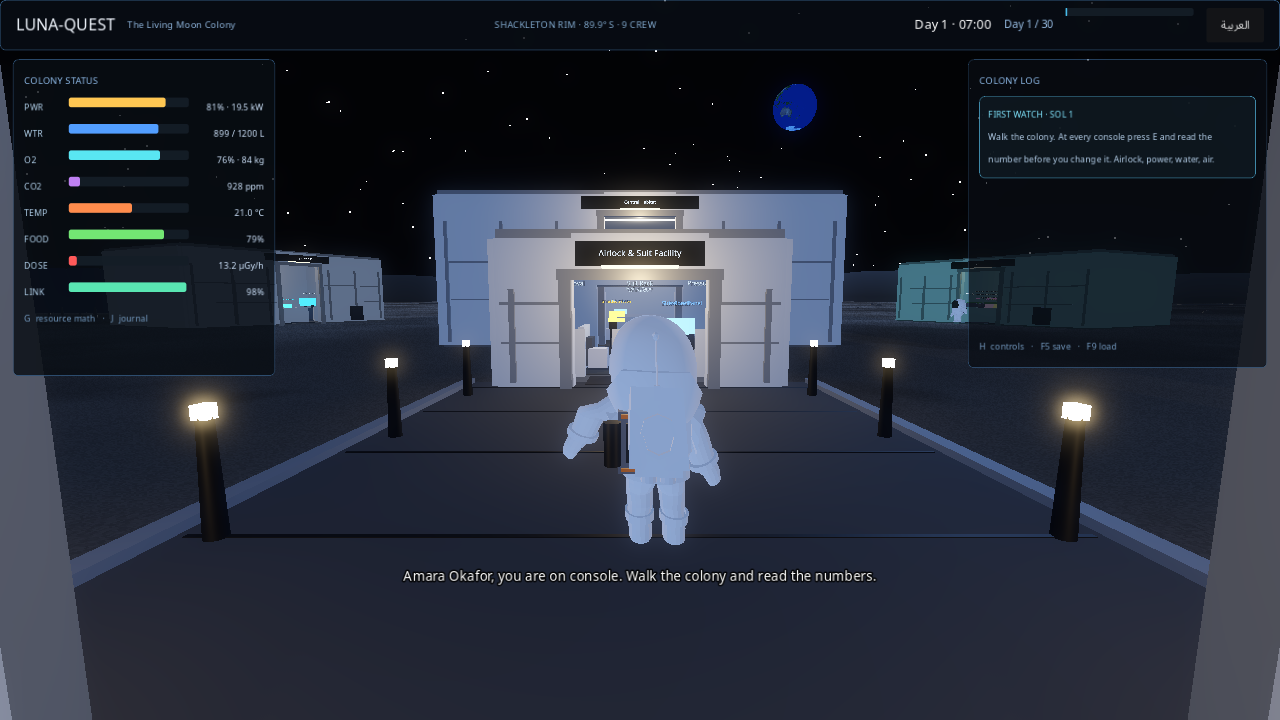
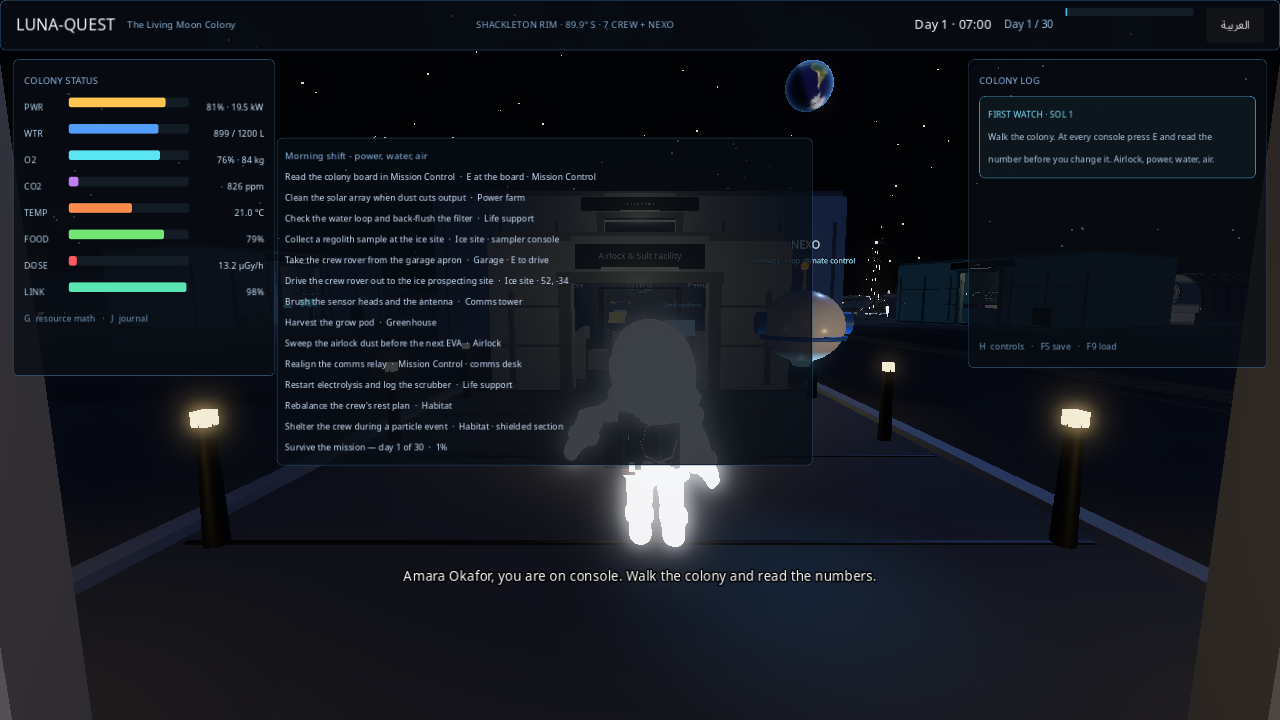
feat(tools): capture the README frames from the Godot .NET edition
The screenshot pipeline ran the browser edition (Chromium/Playwright), which no
longer exists in v3.4 (H1/A1). The capture now runs the shipped game itself:

- tools/capture-screenshots.sh builds the C# (Debug — the assembly a run loads),
  imports the project if needed, and takes all four frames under xvfb at a fixed
  1600x1000 screen (the game window stays at its full 1280x720), crops the
  astronaut-detail frame to 440x440 with Pillow, and validates every size.
- Main.cs gains three inert capture flags: --drive (takes the rover's wheel and
  supplies the pedal — a capture has no hands on the keyboard), --no-board (keeps
  the shift task board, which sits centre screen, out of portrait/detail frames),
  and --look applied after --portrait so the arm can frame the suit's back.
- RoverController.Drive reads a capture-only throttle; it is zero in normal play,
  where the keys decide exactly as before.
- screenshots.yml now builds the .NET edition and calls the script (no node, no
  Chromium); same Godot/dotnet recipe as godot-dotnet.yml, manual trigger only.
- The four frames in docs/screenshots/ are regenerated by that script, the README
  hero points at colony.png instead of the web contact sheet, and the docs list
  the new rover-driving frame and the provenance of every shot.

Guards green after the change: content 16/7/15/11/17/44, engine parity OK,
immutable assets 8 locked files / 12 hash checks.

diff --git a/engines/godot/LunaQuest.Godot/scripts/Main.cs b/engines/godot/LunaQuest.Godot/scripts/Main.cs
@@ -104,6 +104,8 @@ namespace LunaQuest.Godot
             bool cinematic = false;
             bool noIntro = false;
             bool roverTest = false;
+            bool drive = false;
+            bool noBoard = false;
             string? testDialogueNpc = null;
             Vector3? spawn = null;
             float? lookYaw = null, lookPitch = null;
@@ -119,6 +121,8 @@ namespace LunaQuest.Godot
                 else if (arg == "--cinematic") cinematic = true;
                 else if (arg == "--no-intro") noIntro = true;
                 else if (arg == "--rover-test") roverTest = true;
+                else if (arg == "--drive") drive = true;
+                else if (arg == "--no-board") noBoard = true;
                 else if (arg.StartsWith("--spawn=", StringComparison.Ordinal))
                 {
                     var parts = arg.Substring("--spawn=".Length).Split(',');
@@ -151,16 +155,26 @@ namespace LunaQuest.Godot
                 }
             }
             if (spawn.HasValue) Player.GlobalPosition = spawn.Value;
-            if (lookYaw.HasValue || lookPitch.HasValue)
+            // `--look` normally applies at once, but `--portrait` sets the portrait camera up
+            // later (deferred), and its own rotation would swallow the requested direction.
+            // With both flags the look is therefore applied after the portrait — that
+            // combination is how tools/capture-screenshots.sh gets the close back view it
+            // crops for astronaut-detail.png.
+            bool lookAfterPortrait = portrait && (lookYaw.HasValue || lookPitch.HasValue);
+            if (!lookAfterPortrait && (lookYaw.HasValue || lookPitch.HasValue))
                 Player.ResetLook(lookYaw ?? 0f, lookPitch ?? -0.12f);
             if (autoStart) CallDeferred(nameof(AutoStart));
+            if (drive) CallDeferred(nameof(DriveForCapture));
             if (firstPerson) CallDeferred(nameof(FirstPersonView));
             if (portrait) CallDeferred(nameof(Portrait));
+            if (lookAfterPortrait)
+                CallDeferred(nameof(ApplyLookDeferred), lookYaw ?? 0f, lookPitch ?? -0.12f);
+            if (noBoard) CallDeferred(nameof(HideBoardForCapture));
             if (voiceCheck) CallDeferred(nameof(VoicePackCheck));
             if (voiceDemo) CallDeferred(nameof(VoiceDemo));
             if (cinematic) CallDeferred(nameof(StartCinematic));
             bool scripted = autoStart || cinematic || voiceCheck || voiceDemo || portrait || firstPerson ||
-                            roverTest ||
+                            roverTest || drive || noBoard ||
                             _screenshotTimer > 0 || !string.IsNullOrEmpty(testDialogueNpc);
             if (cinematic) { _menuCam?.QueueFree(); _menuCam = null; _music?.Stop(); }
             // The film plays on the first launch; afterwards the menu offers it on demand.
@@ -309,6 +323,39 @@ namespace LunaQuest.Godot
         private void FirstPersonView() => Player.SetThirdPerson(false, false);
 
         private void Portrait() => Player.PortraitCamera();
+
+        /// <summary>
+        /// `--drive`: take the crew rover's wheel for a screenshot run (tools/capture-screenshots.sh).
+        /// A capture has no hands on the keyboard, so once the seat is taken the flag supplies
+        /// the pedal through <see cref="RoverController.CaptureThrottle"/> until the frame is
+        /// saved. Outside a capture the throttle stays zero and the keys win as before.
+        /// </summary>
+        private void DriveForCapture()
+        {
+            TryRoverInteraction();
+            RoverController.CaptureThrottle = Rover != null && Rover.Occupied ? 1f : 0f;
+        }
+
+        /// <summary>
+        /// The look half of a `--portrait --look=...` capture (see HandleCommandLine): applied
+        /// after the portrait camera so the arm orbits to the requested direction instead of
+        /// the portrait's own rotation winning. Inert without both flags.
+        /// </summary>
+        private void ApplyLookDeferred(float yaw, float pitch) => Player.ResetLook(yaw, pitch);
+
+        /// <summary>
+        /// `--no-board`: keep the shift task board off the screen for one capture. The board
+        /// sits in the centre of the frame — exactly where a portrait's visor lands — so
+        /// tools/capture-screenshots.sh takes it out of the way for the portrait and detail
+        /// shots. Every other HUD element stays; nothing changes in normal play, where the
+        /// flag is never passed.
+        /// </summary>
+        private void HideBoardForCapture()
+        {
+            // BoardPanel is the styled container around BoardBox — hiding the panel takes the
+            // background and the rows with it.
+            if (Hud?.BoardPanel != null) Hud.BoardPanel.Visible = false;
+        }
 
         public override void _Process(double delta)
         {

diff --git a/engines/godot/LunaQuest.Godot/scripts/RoverController.cs b/engines/godot/LunaQuest.Godot/scripts/RoverController.cs
@@ -131,10 +131,19 @@ namespace LunaQuest.Godot
             p.RestoreWalkCamera();
         }
 
+        /// <summary>
+        /// Capture-only throttle for `--drive` (see Main.cs): a screenshot run has no hands on
+        /// the keyboard, so the flag supplies the pedal. Zero in normal play, where the keys
+        /// decide the throttle exactly as before.
+        /// </summary>
+        public static float CaptureThrottle;
+
         /// <summary>Called by PlayerController._PhysicsProcess while the commander is at the wheel.</summary>
         public void Drive(float dt, PlayerController p)
         {
-            float throttle = (Input.IsActionPressed("move_forward") ? 1f : 0f) - (Input.IsActionPressed("move_back") ? 1f : 0f);
+            float throttle = CaptureThrottle != 0f
+                ? CaptureThrottle
+                : (Input.IsActionPressed("move_forward") ? 1f : 0f) - (Input.IsActionPressed("move_back") ? 1f : 0f);
             float steerIn = (Input.IsActionPressed("move_left") ? 1f : 0f) - (Input.IsActionPressed("move_right") ? 1f : 0f);
             bool handbrake = Input.IsActionPressed("jump");
             bool boost = Input.IsActionPressed("sprint");

diff --git a/engines/godot/LunaQuest.Godot/README.md b/engines/godot/LunaQuest.Godot/README.md
@@ -91,10 +91,24 @@ Godot --path engines/godot/LunaQuest.Godot \
 # Close-up portrait for astronaut checks
 Godot --path engines/godot/LunaQuest.Godot \
   --autostart --portrait --screenshot=/tmp/portrait.png --shot-delay=5
+
+# Take the crew rover's wheel for a drive-by frame (--drive is capture-only: with no hands
+# on the keyboard it supplies the throttle until the frame is saved)
+Godot --path engines/godot/LunaQuest.Godot \
+  --autostart --no-intro --spawn=-11,-25 --drive --look=3.54,-0.3 \
+  --screenshot=/tmp/rover.png --shot-delay=4.5
+
+# Portrait with the shift task board kept off the picture (--no-board; the board sits in
+# the centre of the frame, exactly where the visor lands). With --portrait, --look is
+# applied after the portrait camera — --portrait --look=0,-0.04 frames the suit's back.
+Godot --path engines/godot/LunaQuest.Godot \
+  --autostart --portrait --no-board --screenshot=/tmp/portrait.png --shot-delay=4.5
 ```
 
 These flags are inert during normal play. The screenshot path can be absolute or a
-`res://`/`user://` path.
+`res://`/`user://` path. `tools/capture-screenshots.sh` runs these captures to refresh
+`docs/screenshots/` (a virtual display is required — `--headless` has no renderer to
+photograph).
 
 ---
 

diff --git a/README.md b/README.md
@@ -2,7 +2,7 @@
 
 > **30 Earth days. Six crew, one commander and NEXO the robot. One shared simulation. Every kilogram and every second counted.**
 
-![Luna-Quest v3.3 - nine in-game views](docs/screenshots/preview-candidates.jpg)
+![Luna-Quest — the colony at Shackleton rim](docs/screenshots/colony.png)
 
 ## Download and play
 
@@ -432,6 +432,16 @@ Godot --path engines/godot/LunaQuest.Godot --autostart \
 # Front portrait for model checks
 Godot --path engines/godot/LunaQuest.Godot --autostart --portrait \
   --screenshot=/tmp/portrait.png --shot-delay=5
+
+# Take the crew rover's wheel for a drive-by frame (capture-only throttle)
+Godot --path engines/godot/LunaQuest.Godot --autostart --no-intro \
+  --spawn=-11,-25 --drive --look=3.54,-0.3 \
+  --screenshot=/tmp/rover.png --shot-delay=4.5
+
+# Portrait with the shift task board off the picture — the board sits centre screen,
+# exactly where the visor lands
+Godot --path engines/godot/LunaQuest.Godot --autostart --portrait --no-board \
+  --screenshot=/tmp/portrait.png --shot-delay=4.5
 
 # Start in the helmet view, at a fixed position and look direction
 Godot --path engines/godot/LunaQuest.Godot --autostart --first-person \

diff --git a/docs/README.md b/docs/README.md
@@ -33,9 +33,14 @@ the research is not a flight-certified design.
 
 | File | View |
 |---|---|
-| `screenshots/colony.png` | Default spawn, third-person, Shackleton rim |
+| `screenshots/colony.png` | Default spawn, third-person, Shackleton rim — the shift task board over the colony |
+| `screenshots/rover-driving.png` | The crew rover mid-drive from the garage; the board shows its garage milestone ticked |
 | `screenshots/portrait.png` | Close-up of the astronaut and visor |
 | `screenshots/astronaut-detail.png` | Crop of the backpack and suit details |
+
+The frames are real Godot .NET renders of the shipped game — no browser is involved
+anywhere in the project — taken by `tools/capture-screenshots.sh`, which
+`.github/workflows/screenshots.yml` also runs on demand.
 
 ## Licenses
 
